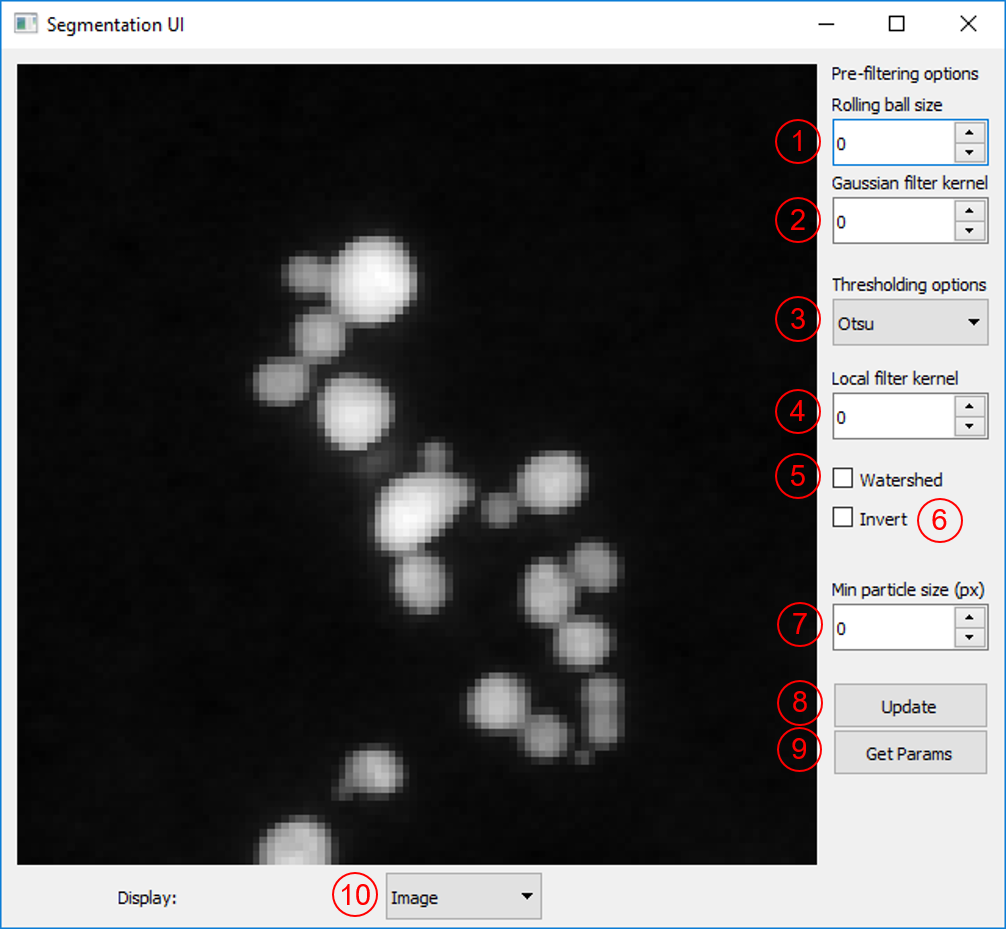
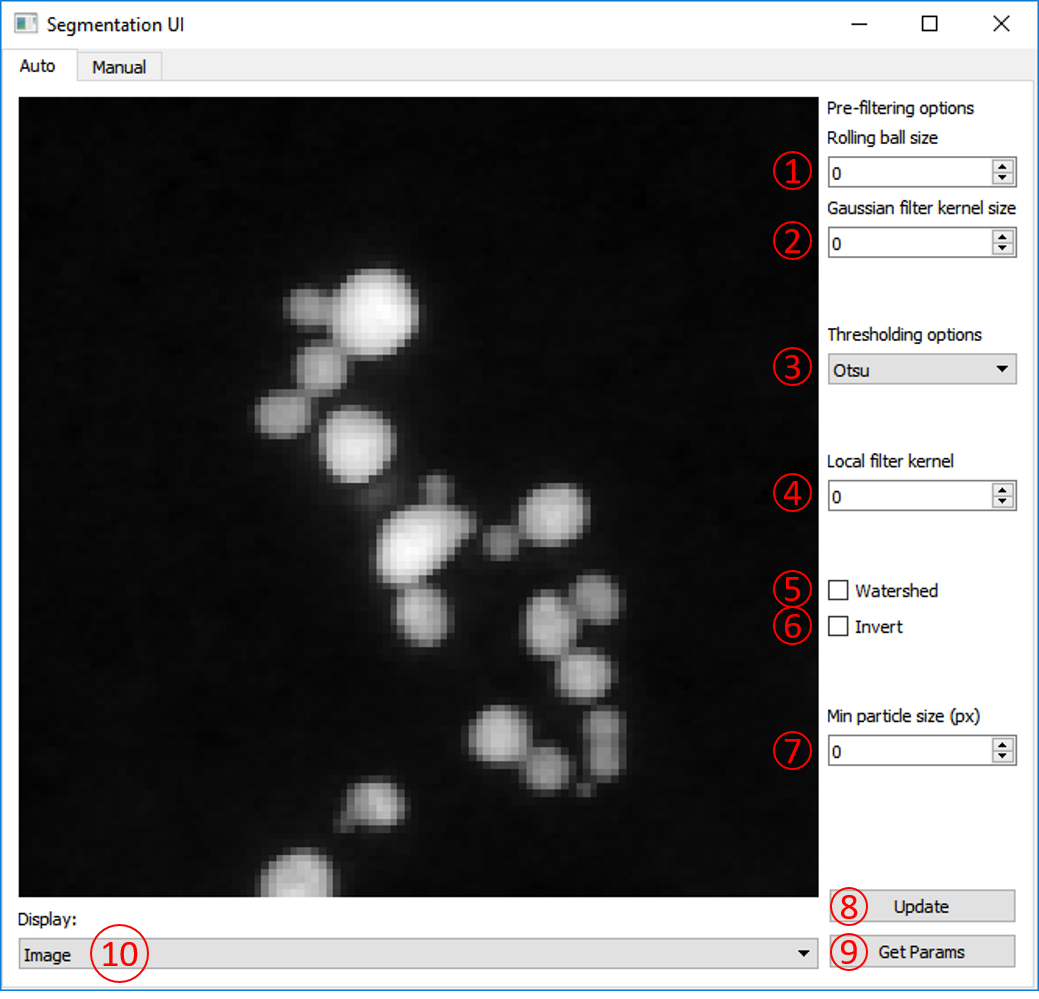
Updated Documentation
Updated the documentation to include details on using manual segmentation and pre-segmented masks.

diff --git a/docs/segmentation.rst b/docs/segmentation.rst
@@ -7,7 +7,7 @@ Segmentation
 ParticleSpy provides different options for the segmentation of particles from images.
 
 Using a Pre-Segmented Mask
-==========================
+--------------------------
 
 The most straightforward method is to supply ParticleSpy with a pre-segmented mask (boolean image).
 
@@ -18,18 +18,28 @@ The most straightforward method is to supply ParticleSpy with a pre-segmented ma
 In this way other software (e.g. ImageJ) could be used to perform segmentation which is then used by ParticleSpy to segment particles.
 
 Using the Segmentation User Interface
-=====================================
+-------------------------------------
 
-ParticleSpy can also perform its own segmentation using functions from scikit-image. A number of methods and options for segmentation are included and therefore ParticleSpy parameterizes the segmentation process. In order to choose the correct parameters for your segmentation ParticleSpy provides a Segmentation User Interface, that can be launched from a python kernel using the :py:meth:`~.SegUI` function.
+ParticleSpy can also perform its own segmentation either using automated functions from scikit-image or using a fully manual approach.
+In order to assist with both methods, ParticleSpy provides a Segmentation User Interface.
+This can be launched from a python kernel using the :py:meth:`~.SegUI` function.
 
 .. code-block:: python
 
     >>> SegUI(image)
 
-Once the Segmentation User Interface is launched the image is displayed and a number of options are available on the right hand side.
+Parameter Picking for Automated Segmentation
+============================================
+
+Once the Segmentation User Interface is launched the 'Auto' panel is displayed.
+This panel provides a number of options that can be tuned to provide an optimal automated segmentation.
+Once you have chosen your parameters, pressing 'Update' will display a segmented image.
+'Update' will also save the current parameters to use later.
 
 .. image:: _static/segui.png
     :align: center
+
+The parameters for the automated segmentation are described here:
 
 (1) Rolling ball size
     
@@ -73,3 +83,25 @@ Prints the current parameters as output for reference.
 (10) Display
      
 Option to display either the image with label boundaries displayed, or the solid labels coloured by label number.
+
+Manual Segmentation
+===================
+
+The second tab in the Segmentation User Interface provides an option to manually segment an individual image.
+You can get to this tab by clicking 'Manual' in the top bar.
+
+Here, segmentation works by holding the left mouse button and drawing around the outside of a particle.
+Once you have completely enclosed the particle, release the left mouse button.
+If you are happy with your particle boundary, click on the particle centre with the right mouse button.
+You may notice the middle of the particle turn slightly blue (can be difficult to see).
+Continue to segment all of the particles in the image in this way until all are segmented.
+
+Once you have segmented all of the particles, click 'Save Segmentation'.
+This will save the generated segmentation as an internal npy file that can be read when using :py:meth:`~.ParticleAnalysis`.
+
+.. image:: _static/manual_segui.png
+    :align: center
+
+.. warning::
+   Do NOT right-click on any part of the image that is not fully enclosed by a red circle.
+   Doing so will ruin the segmentation and you will have to reload SegUI.

diff --git a/docs/particle_analysis.rst b/docs/particle_analysis.rst
@@ -17,28 +17,69 @@ Once you have chosen your segmentation parameters and successfully prepared a pr
 Particle Analysis will run the segmentation on your data and calculate a number of parameters for each particle.
 
 The calculated parameters include:
-- Area
-- Equivalent circular diameter
-- Major and minor axes lengths
-- Circularity
-- Eccentricity
-- Total particle intensity
-- Zone axis (if atomic resolution images of fcc structure, looking to expand this!)
+
+* Area
+
+* Equivalent circular diameter
+
+* Major and minor axes lengths
+
+* Circularity
+
+* Eccentricity
+
+* Total particle intensity
+
+* Zone axis (if atomic resolution images of fcc structure, looking to expand this!)
 
 .. code-block:: python
 
     >>> #Syntax for accessing particle properties.
     >>> particles.list[0].properties['area']
 
+Combining Particles from Multiple Images
+----------------------------------------
+
+It is possible to analyse particles from multiple images by passing a previously populated Particle_list object to :py:meth:`~.ParticleAnalysis` instead of returning a new Particle_list.
+For example:
+
+.. code-block:: python
+
+    >>> ps.ParticleAnalysis(data, params, particles=particles)
+
+EDS Analysis
+------------
+
 In addition, Particle Analysis will also segment and process EDS data if given as an additional dataset in the data list.
 
 Particle Analysis can do the following processing on EDS data:
-- Obtain the EDS spectrum of each particle.
-- Obtain elemental maps of each particle.
-- Get the composition of each particle if k-factors or zeta-factors are supplied in the parameters object.
+
+* Obtain the EDS spectrum of each particle.
+
+* Obtain elemental maps of each particle.
+
+* Get the composition of each particle if k-factors or zeta-factors are supplied in the parameters object.
 
 .. code-block:: python
 
     >>> params = ps.parameters.load()
     >>> params.generate_eds(eds_method='CL',elements=['Pt','Au'],factors=[1.7,1.9],store_maps=False)
     >>> particles = ps.ParticleAnalysis(data, params)
+    
+Particle Segmentation with a Pre-Generated Mask
+-----------------------------------------------
+
+:py:meth:`~.ParticleAnalysis` will also accept pre-generated masks, either generated externally or through the manual option of :py:meth:`~.SegUI`.
+In order to use a pre-generated mask it is possible to pass a mask argument to :py:meth:`~.ParticleAnalysis`.
+
+.. code-block:: python
+
+    >>> generated_mask = hs.load('maskfile')
+    >>> params = ps.parameters.load() # This isn't used if you load a pre-generated mask but you still have to pass it.
+    >>> particles = ps.ParticleAnalysis(data, params, mask=generated_mask)
+
+If you have used the manual segmentation editor in :py:meth:`~.SegUI` you can simply pass 'UI' as the mask argument.
+
+.. code-block:: python
+    
+    >>> particles = ps.ParticleAnalysis(data, params, mask='UI')
